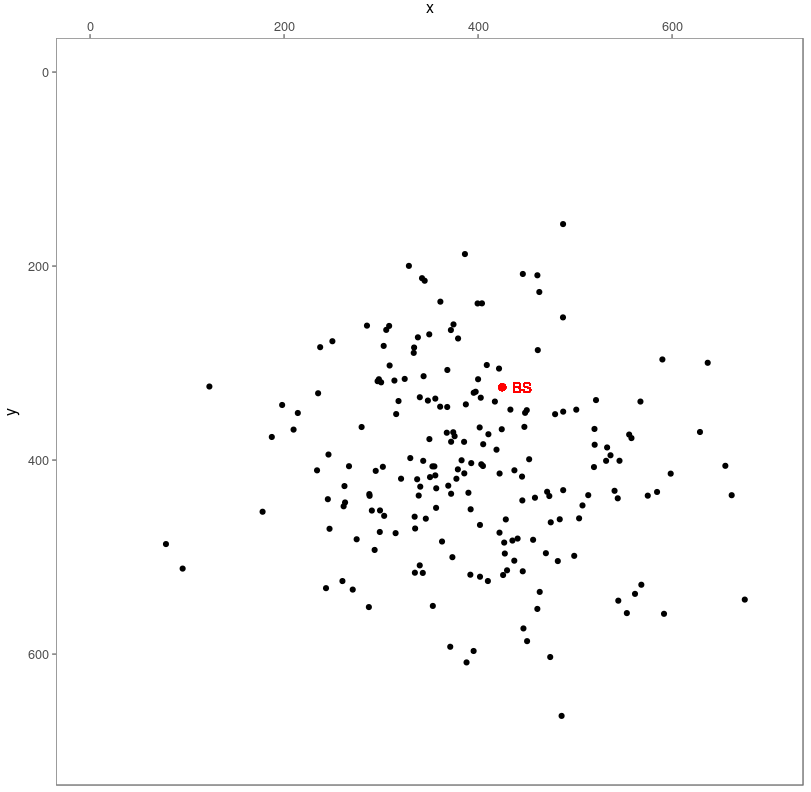
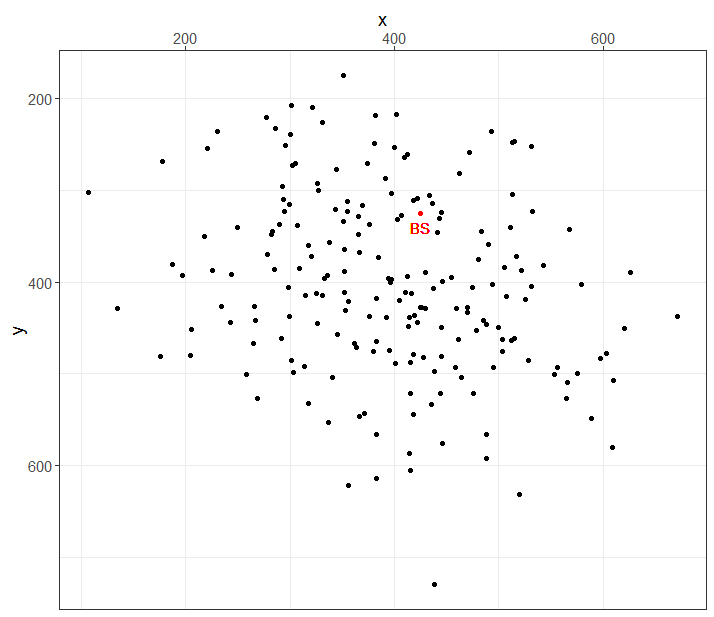
Updates after review

diff --git a/chapters/1_wstep.tex b/chapters/1_wstep.tex
@@ -5,7 +5,7 @@ Dzięki postępom techniki w zakresie energooszczędnych procesorów, komunikacj
 
 Sieć bezprzewodową charakteryzuje brak sterowania centralnego, który umożliwia rozproszenie dużej liczba czujników w danym, interesującym badacza obszarze. Sieci te same w sobie zapewniają element losowości, który jest bardzo często pożądany w badaniach, ponieważ nie jest możliwe projektowanie dokładnego rozmieszczenia danego czujnika. Najistotniejszą funkcją sieci jest pozyskanie informacji z obszaru, w którym znajdują się sensory \cite{Akyildiz2010}.
 
-Bezprzewodowe sieci czujników charakteryzuje szeroki wachlarz zastosowań. Można tu wyróżnić wspomniane wcześniej cele naukowe, a w szczególności te dotyczące badania świata przyrody. Na uwagę zasługują również te sieci, które zostały zamontowane w celach ochronnych takie jak miejski monitoring, czy prewencja włamań do domu, a także systemy ostrzegania o pożarze. Systemy te wykorzystywane są również w miejscach pracy tworząc inteligentne przedszkola czy winnice. Można więc śmiało powiedzieć, że
+Bezprzewodowe sieci czujników charakteryzuje szeroki wachlarz zastosowań. Można tu wyróżnić wspomniane wcześniej cele naukowe, a w szczególności te dotyczące badania świata przyrody. Na uwagę zasługują również te sieci, które zostały zamontowane w celach ochronnych takie jak miejski monitoring, czy prewencja włamań do domu, a także systemy ostrzegania o~pożarze. Systemy te wykorzystywane są również w miejscach pracy tworząc inteligentne przedszkola czy winnice. Można więc śmiało powiedzieć, że
 stały się one częścią naszego życia \cite{Ilyas2004}.
 
 Ponadto bezprzewodowe sieci czujnikowe wykorzystywane są z powodzeniem w prężnie rozwijających się technologiach IoT (Internet of Things). 

diff --git a/chapters/narzedzia.tex b/chapters/narzedzia.tex
@@ -69,4 +69,4 @@ Do komunikacji moduły wykorzystują zdefiniowane (w pliku .ned) przez programis
 \section{INET}
 INET jest biblioteką/modelem zawierającym implementacji wielu protokołów sieciowych (m.in. IPv4, IPv6, TCP, SCTP, UDP), jak również standardów komunikacji wykorzystywanych m.in. w sieciach czujników (IEEE 802.15.4)\cite{inet}. Biblioteka ta stanowi rozszerzenie dla platformy \omnetpp, tak więc wykorzystuje ona tą samą koncepcję dotyczącą komunikacji pomiędzy modułami za pomocą przekazywanych wiadomości. Protokoły sieciowe reprezentowane są za pomocą modułów prostych, których interfejs zewnętrzny opisywany jest w pliku NED, a implementacja w klasie języka C++. Moduły proste wykorzystywane są w modułach z złożonych za pomocą których definiowane są urządzenia sieciowe (np. trasownik). Oprócz protokołów wykorzystywane są one również do implementacji tabel tras, mobilności węzłów oraz automatycznych konfiguratorów sieci. Modele interfejsów sieciowych takich, jak np. Ethernet, czy 802.11 również tworzone są jako moduły złożone.
 
-Warta wspomnienia jest również alternatywa do pakietu INET (w zakresie symulacji bezprzewodowych sieci czujnikowych) jaką jest symulator Castalia. Jest to otwarte, niekomercyjne rozwiązanie oparte na oprogramowaniu \omnetpp. W przeciwieństwie do \omnetpp i INET nie jest ono jednak aktywnie rozwijane. 
+Warta wspomnienia jest również alternatywa do pakietu INET (w zakresie symulacji bezprzewodowych sieci czujnikowych) jaką jest symulator Castalia. Jest to otwarte, niekomercyjne rozwiązanie oparte na oprogramowaniu \omnetpp w wersji 4.6 (nie jest kompatybilne z najnowszymi wersjami \omnetpp 5.X). W przeciwieństwie do INET nie jest ono jednak aktywnie rozwijane. 

diff --git a/chapters/symulacje.tex b/chapters/symulacje.tex
@@ -8,7 +8,7 @@ Dla rozkładu normalnego średnia współrzędnej wynosiła 400m, a jej odchylen
 
 \begin{figure}[!htbp]
 	\begin{center}
-		\includegraphics[scale=0.35]{\ImgPath/charts/normal_distribution.png}
+		\includegraphics[scale=0.75]{\ImgPath/charts/normal_distribution.png}
 	\end{center}
 	\caption{Przykładowa dystrybucja węzłów sieci zgodna z rozkładem normalnym}
 \end{figure}
@@ -17,7 +17,7 @@ Z rozkładem jednorodnym węzły zostały rozłożone na obszarze o kształcie p
 
 \begin{figure}[!htbp]
 	\begin{center}
-		\includegraphics[scale=0.35]{\ImgPath/charts/uniform_distribution.png}
+		\includegraphics[scale=0.75]{\ImgPath/charts/uniform_distribution.png}
 	\end{center}
 	\caption{Przykładowa dystrybucja węzłów sieci zgodna z rozkładem jednorodnym}
 \end{figure}
